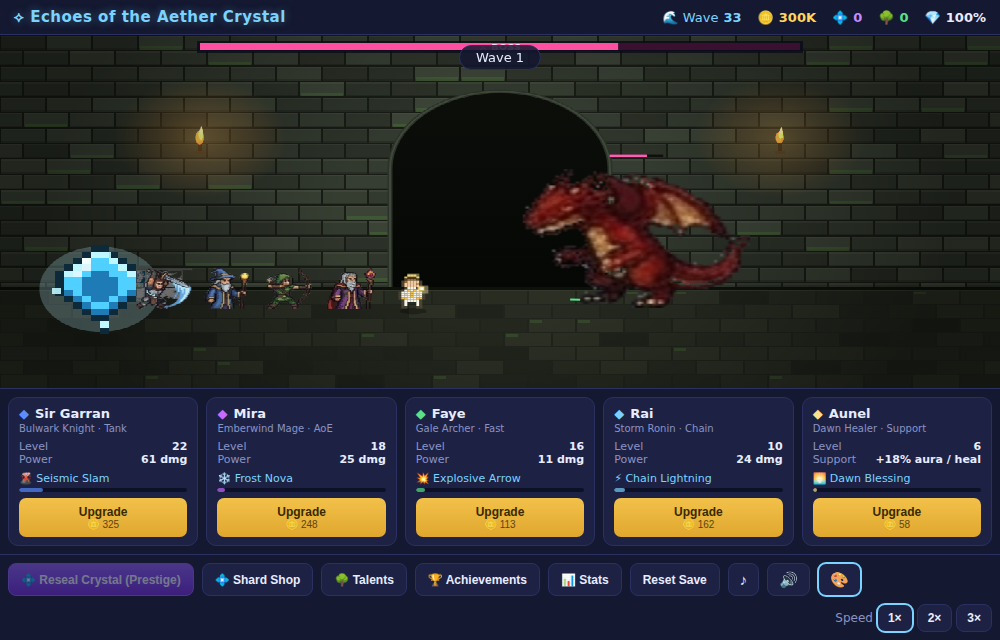
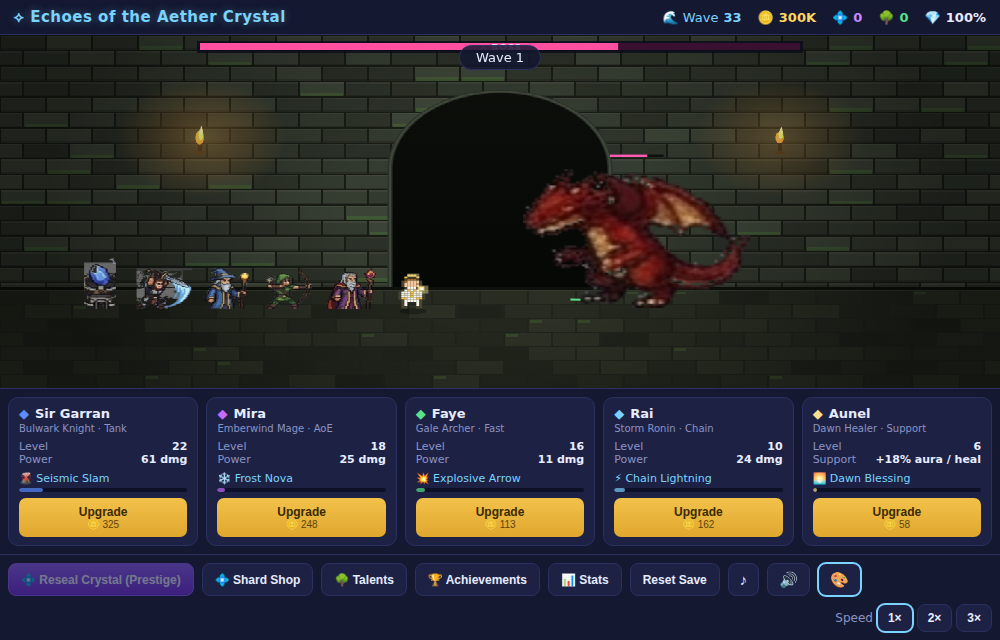
Replace the crystal with an animated crystal tower
Extract the uploaded tower strip (strip-extract.mjs: colour-based frame detect
+ per-frame grey key, keeps the stone base) into a 2-row idle/attack sheet, and
render it at the defended point instead of drawCrystal: idle glow normally,
attack (fires a bolt) when foes are near, with a red damage tint when crystal
HP is low. Falls back to drawCrystal if the sheet is missing. Heroes unchanged.

Claude-Session: https://claude.ai/code/session_0137Kmgx8usseqRPpPc7daxH

Changed region(s): [[0.031, 0.375, 0.155, 0.5312]]

diff --git a/game.js b/game.js
@@ -679,9 +679,19 @@ function draw(now){
   if (Spr().drawBackground) Spr().drawBackground(ctx, view.w, view.h, now);
   else { ctx.fillStyle = '#0a0e24'; ctx.fillRect(0,0,view.w,view.h); }
 
-  const pulse = 0.5 + 0.5*Math.sin(now/500);
-  if (Spr().drawCrystal) Spr().drawCrystal(ctx, view.crystalX, view.ground - size*10, size*3, pulse, S.crystalHp);
-  else { ctx.fillStyle = `rgba(123,211,255,${0.5+0.4*pulse})`; ctx.fillRect(view.crystalX-14, view.ground-70, 28, 44); }
+  // crystal tower — idle glow normally, attack (fires a bolt) when foes are near
+  const towerH = size * 26;
+  const nearFoe = enemies.some(e => e.x < view.crystalX + 240 * px);
+  const drewTower = window.Sheets && Sheets.draw(ctx, 'tower', view.crystalX, view.ground, towerH, nearFoe ? 'attack' : 'idle', now);
+  if (!drewTower){
+    const pulse = 0.5 + 0.5*Math.sin(now/500);
+    if (Spr().drawCrystal) Spr().drawCrystal(ctx, view.crystalX, view.ground - size*10, size*3, pulse, S.crystalHp);
+    else { ctx.fillStyle = `rgba(123,211,255,${0.5+0.4*pulse})`; ctx.fillRect(view.crystalX-14, view.ground-70, 28, 44); }
+  } else if (S.crystalHp < 0.6){
+    // damage tint when the tower's crystal is low on HP
+    ctx.save(); ctx.globalAlpha = (0.6 - S.crystalHp) * 0.7; ctx.fillStyle = '#c81818';
+    ctx.fillRect(view.crystalX - towerH*0.45, view.ground - towerH, towerH*0.9, towerH); ctx.restore();
+  }
 
   // enemies
   for (const e of enemies){

diff --git a/sheets.js b/sheets.js
@@ -38,6 +38,8 @@ window.Sheets = (function () {
     mira:   { file:'wizard.png',   rows:2, cols:3, fit:HFIT, anim:bmob(2,3) },  // Mage
     faye:   { file:'archer.png',   rows:2, cols:5, fit:HFIT, anim:bmob(2,5) },  // Archer
     rai:    { file:'sorcerer.png', rows:2, cols:3, fit:HFIT, anim:bmob(2,3) },  // Sorcerer
+    // the defended crystal, as an animated tower (idle glow / attack fires a bolt)
+    tower:  { file:'tower.png',    rows:2, cols:4, fit:1.0,  anim:bmob(4,4) },
     // monsters — extracted from the bestiary (idle + attack rows). Face left
     // = the direction they march, so no flip.
     slime:      { file:'slime.png',      rows:2, cols:11, fit:1.0, flip:true, anim:bmob(6,11) },  // earth
